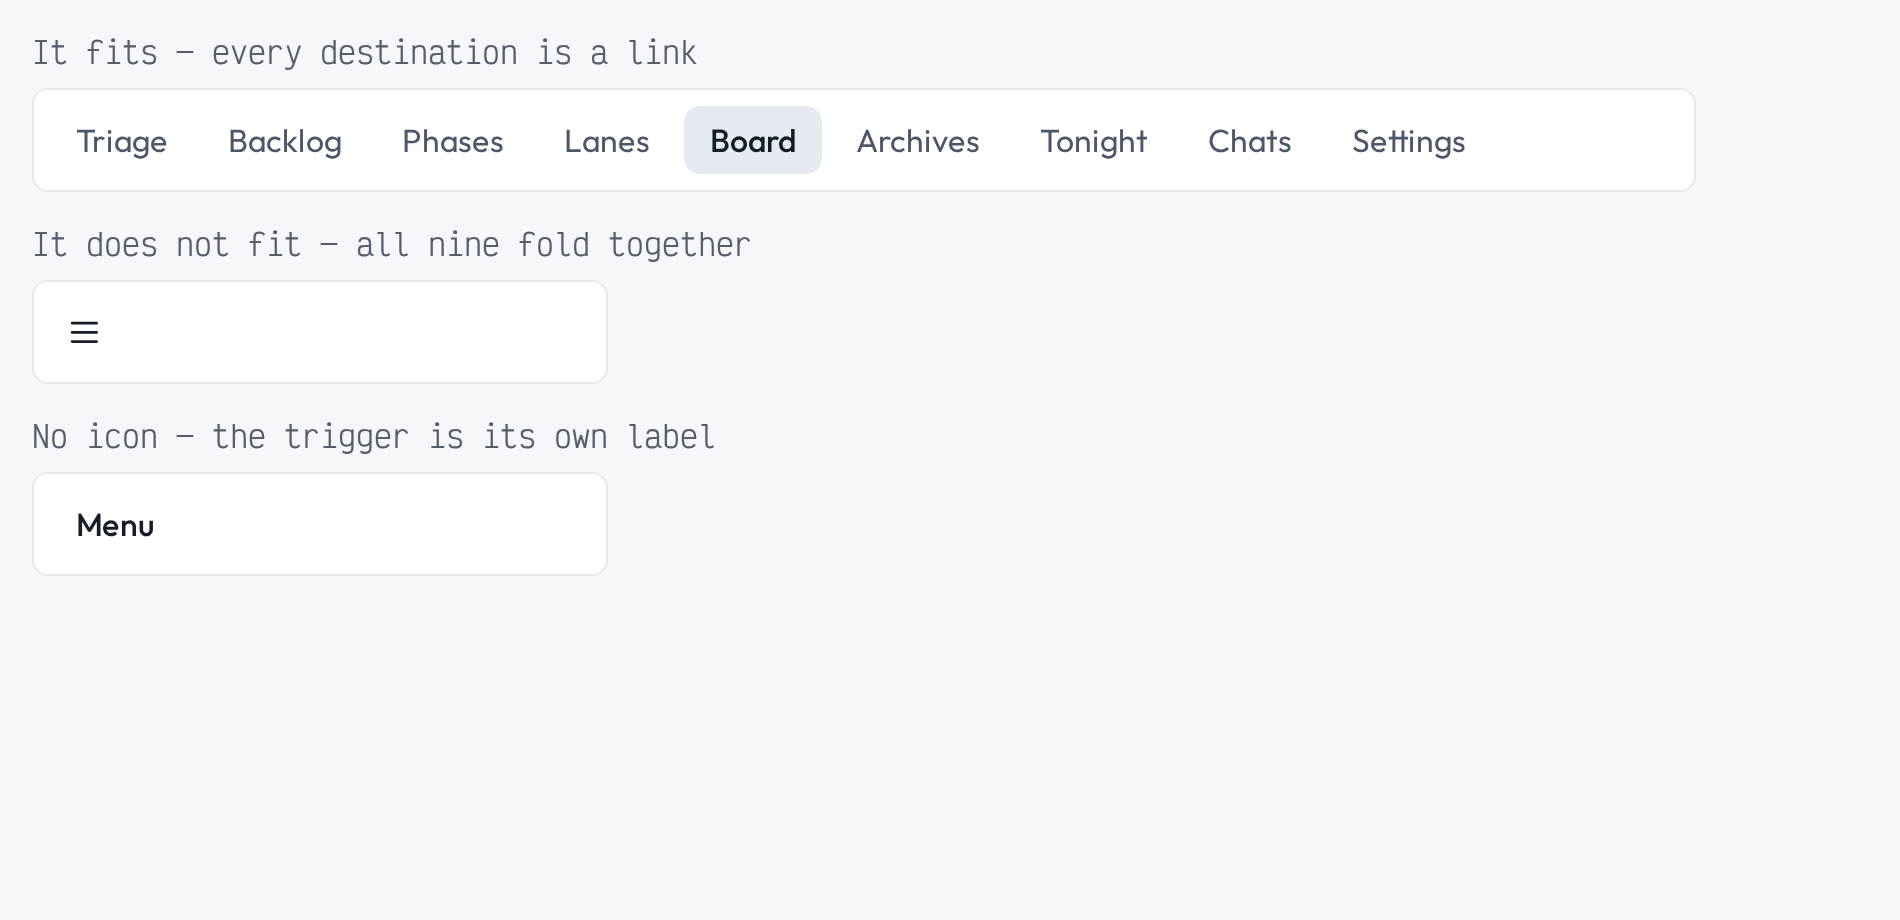
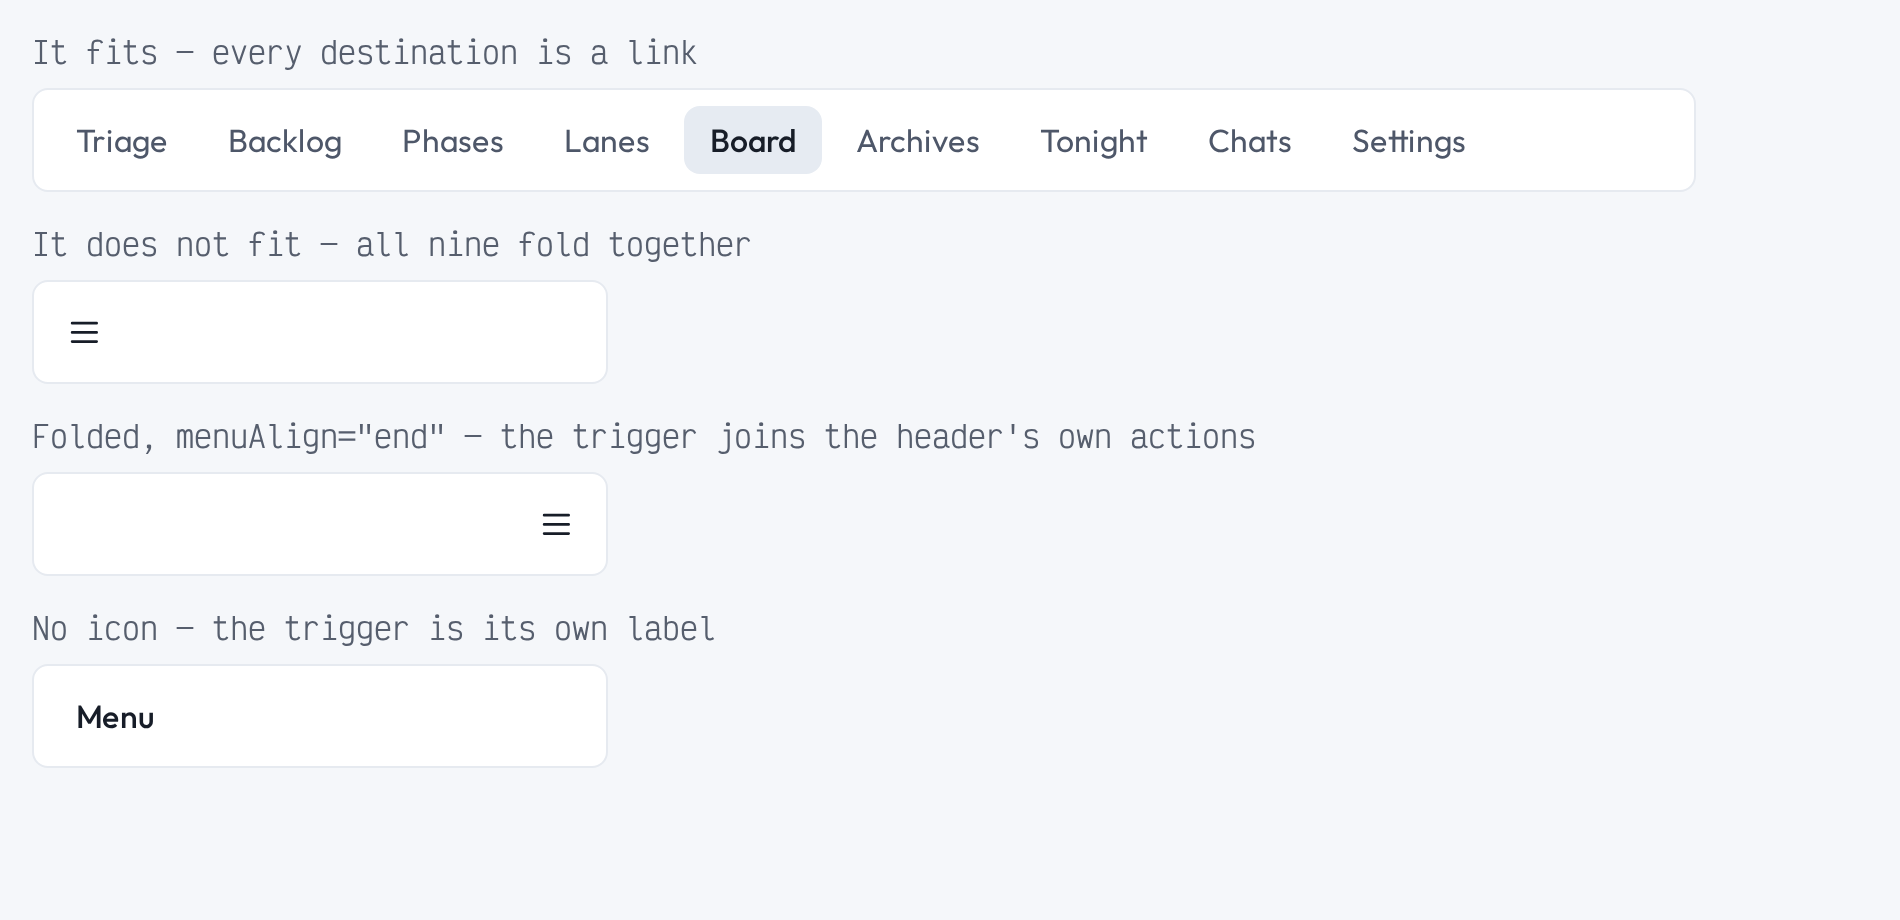
feat(ui): a fold control belongs at an edge
`menuAlign="end"` puts `NavBar`'s folded trigger beside the header's own
actions rather than leaving it hugging the wordmark with the whole track
empty after it. Docket at 390px is what made the case: `[icon] Docket [☰]
................ [Add Task]` — a control at neither edge, in the middle of
a gap.

It reaches ONLY the folded row, which holds exactly one item. So where the
links sit when the bar is whole is deliberately not a prop, and cannot be
made to disagree with the rest of the header.

An app could get the same result with `:has(> button)` on the nav, and that
is precisely the clever-fragile local workaround the library exists to
absorb: it depends on the trigger being a direct child, which is
`Popover`'s cloning detail rather than anything this component promises.

diff --git a/packages/ui/src/NavBar/NavBar.tsx b/packages/ui/src/NavBar/NavBar.tsx
@@ -54,6 +54,17 @@ export type NavBarProps = {
    */
   label: string
   /**
+   * Where the trigger sits in the bar's track once the row has
+   * folded. `"end"` when the header puts its own actions at the
+   * far edge, so the fold control joins them instead of hugging
+   * the wordmark with the whole track empty after it.
+   *
+   * It reaches **only** the folded row, which holds exactly one
+   * item — so it cannot disturb where the links sit when the bar
+   * is whole, and there is deliberately no prop that can.
+   */
+  menuAlign?: "end" | "start"
+  /**
    * The collapsed trigger's glyph. **No default** — the library
    * ships no icons, and `☰` renders as nothing where the font lacks
    * it. With no icon the trigger is a text button reading
@@ -134,6 +145,7 @@ export const NavBar = ({
   isMenuVisible = false,
   items,
   label,
+  menuAlign = "start",
   menuIcon,
   menuLabel = "Menu",
   menuPlacement = "bottom-start",
@@ -214,6 +226,12 @@ export const NavBar = ({
       aria-label={label}
       className={toClassName(
         "flex min-w-0 flex-1 items-center gap-1",
+        // Two written-out entries rather than one interpolated
+        // string: Tailwind's scanner cannot see a class that
+        // exists only at runtime.
+        isCollapsed && menuAlign === "end"
+          ? "justify-end"
+          : "justify-start",
         className,
       )}
       ref={containerRef}

diff --git a/packages/ui/src/NavBar/NavBar.test.tsx b/packages/ui/src/NavBar/NavBar.test.tsx
@@ -211,6 +211,38 @@ test("a route no destination owns marks nothing", async () => {
 })
 
 /**
+ * A fold control belongs at an edge. `menuAlign="end"` puts it
+ * beside the header's own actions instead of hugging the wordmark
+ * with the whole track empty after it — and it reaches only the
+ * folded row, so the links' own position is not a prop.
+ */
+test("the folded trigger can sit at the end of the track", async () => {
+  const { canvas } = await mountStory(AllVariants)
+
+  const aligned = expectAgentDrivable(canvas, {
+    name: "Main, trigger at the end",
+    role: "navigation",
+  })
+
+  const start = expectAgentDrivable(canvas, {
+    name: "Main, narrow",
+    role: "navigation",
+  })
+
+  await waitFor(() => {
+    expect(
+      within(aligned)
+        .getByRole("button", { name: "Main menu" })
+        .getBoundingClientRect().left,
+    ).toBeGreaterThan(
+      within(start)
+        .getByRole("button", { name: "Main menu" })
+        .getBoundingClientRect().left,
+    )
+  })
+})
+
+/**
  * The trigger advertises what it opens, and gets focus back when it
  * closes — both from `useRole` and `FloatingFocusManager` inside
  * `Popover`, so neither can be forgotten here.

diff --git a/packages/ui/src/NavBar/NavBar.stories.tsx b/packages/ui/src/NavBar/NavBar.stories.tsx
@@ -176,6 +176,24 @@ export const AllVariants: Story = {
         </Frame>
       </StoryCell>
 
+      <StoryCell
+        label={
+          'Folded, menuAlign="end" — the trigger joins the header\'s own actions'
+        }
+      >
+        <Frame inlineSize="18rem">
+          <NavBar
+            currentHref={currentHref}
+            items={DESTINATIONS}
+            label="Main, trigger at the end"
+            menuAlign="end"
+            menuIcon={<MenuIcon />}
+            menuLabel="Main menu"
+            size={size}
+          />
+        </Frame>
+      </StoryCell>
+
       <StoryCell label="No icon — the trigger is its own label">
         <Frame inlineSize="18rem">
           <NavBar
@@ -311,6 +329,10 @@ const AppShellHarness = (): ReactNode => (
         currentHref="/board"
         items={DESTINATIONS}
         label="Main"
+        // The header's own action is at the far edge, so the fold
+        // control joins it rather than hugging the wordmark with
+        // the whole track empty after it.
+        menuAlign="end"
         menuIcon={<MenuIcon />}
         menuLabel="Main menu"
       />

diff --git a/.changeset/navbar-folds-whole.md b/.changeset/navbar-folds-whole.md
@@ -16,5 +16,7 @@ no status bar, nothing to copy, and identical in a screenshot.
 
 The fold is measured rather than breakpointed: it reuses `Toolbar`'s `useToolbarOverflow`,
 so there is no `collapseAt` and no media query, and a longer label or a reader at 175% zoom
-moves the fold on its own. `getIsCurrentHref` is exported alongside it — a parent path is
+moves the fold on its own. `menuAlign="end"` puts the folded trigger beside the header's own actions instead of
+hugging the wordmark; it reaches only the folded row, so the links' own position stays out
+of the API. `getIsCurrentHref` is exported alongside it — a parent path is
 current for its children, `/` is exact, and the query string is not part of the answer.
